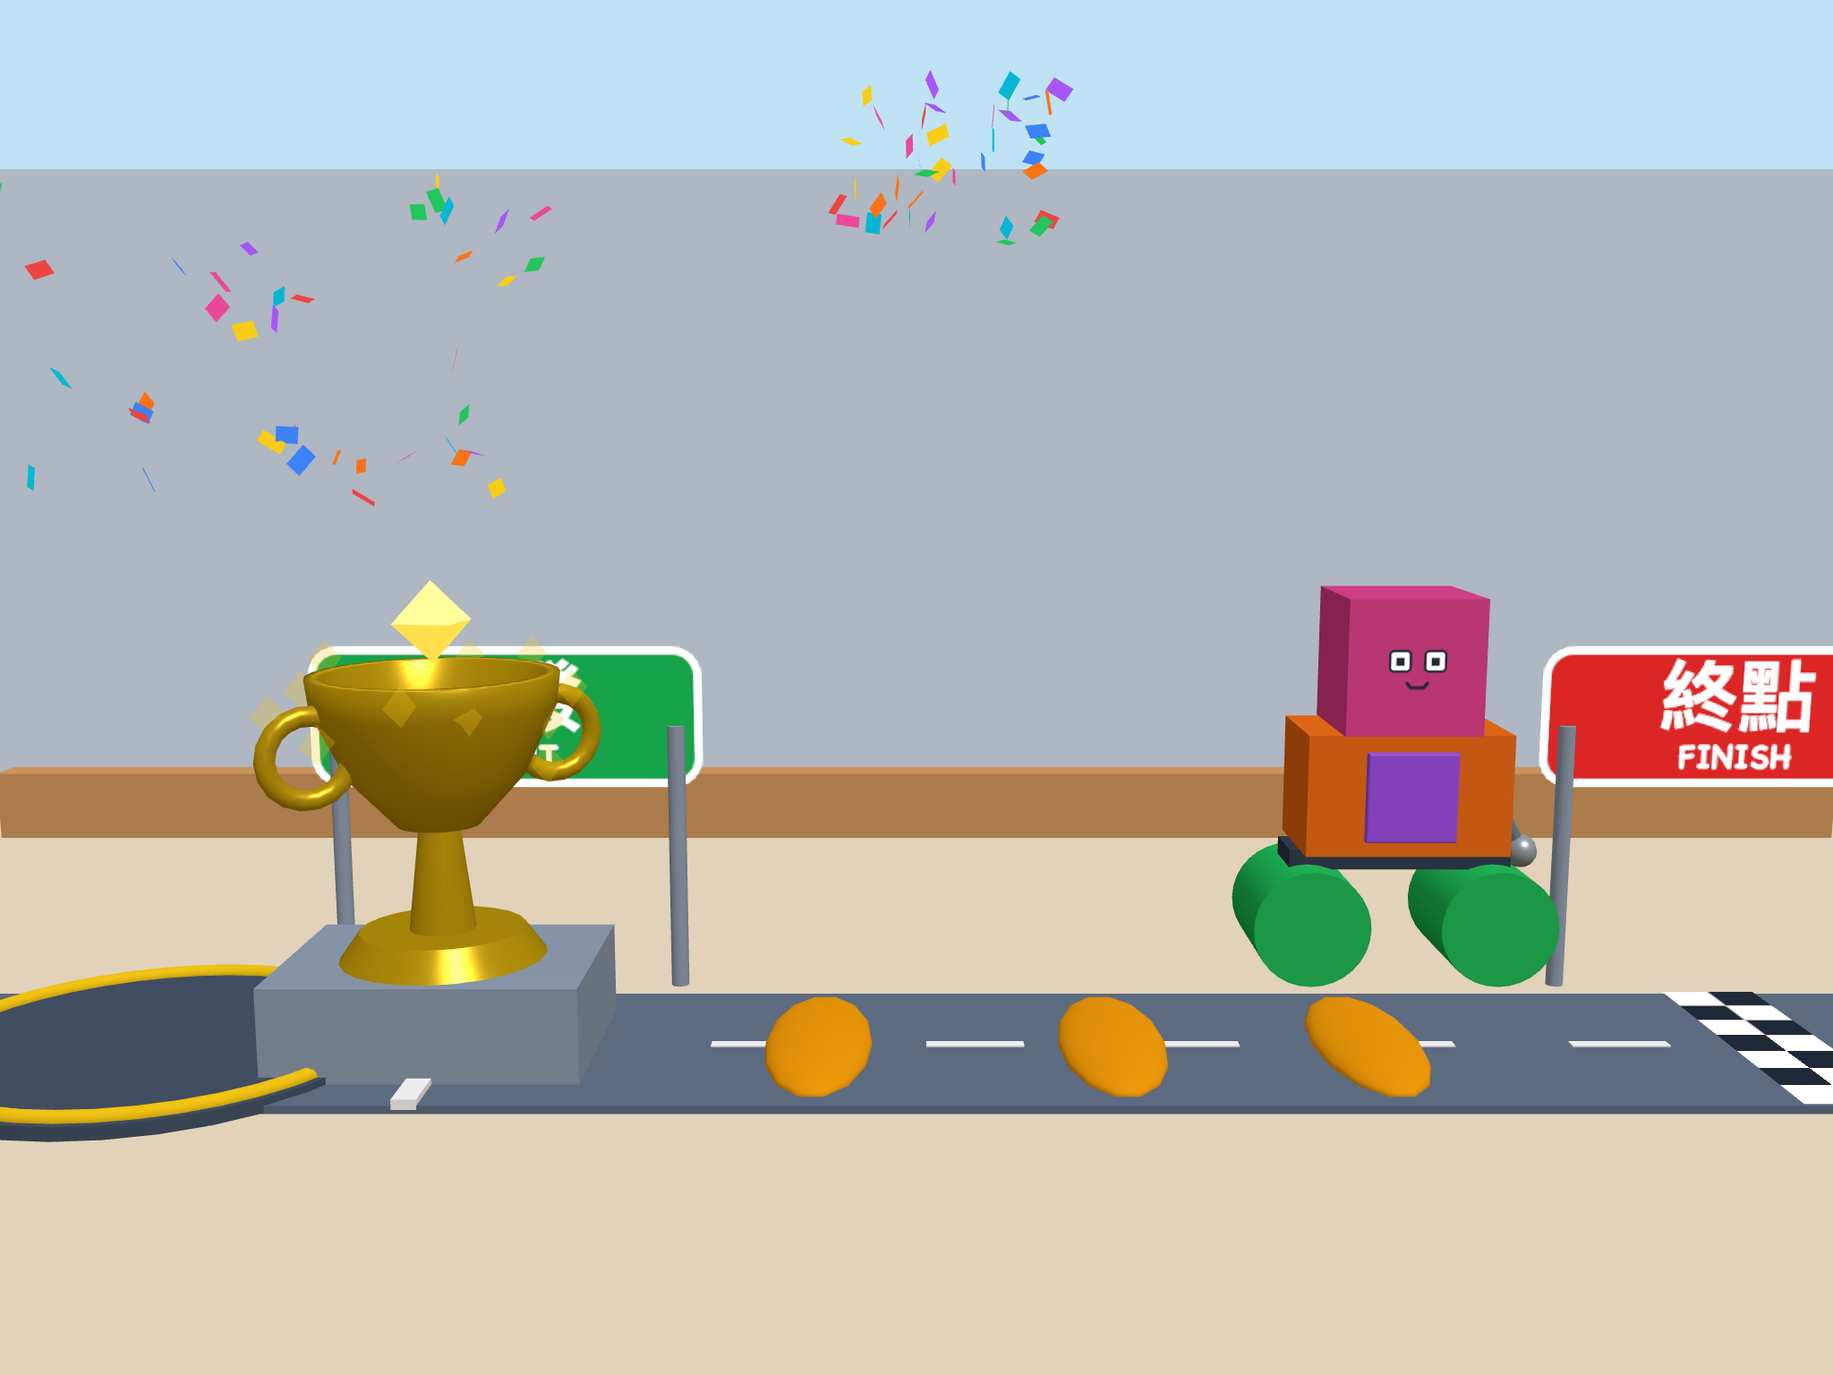
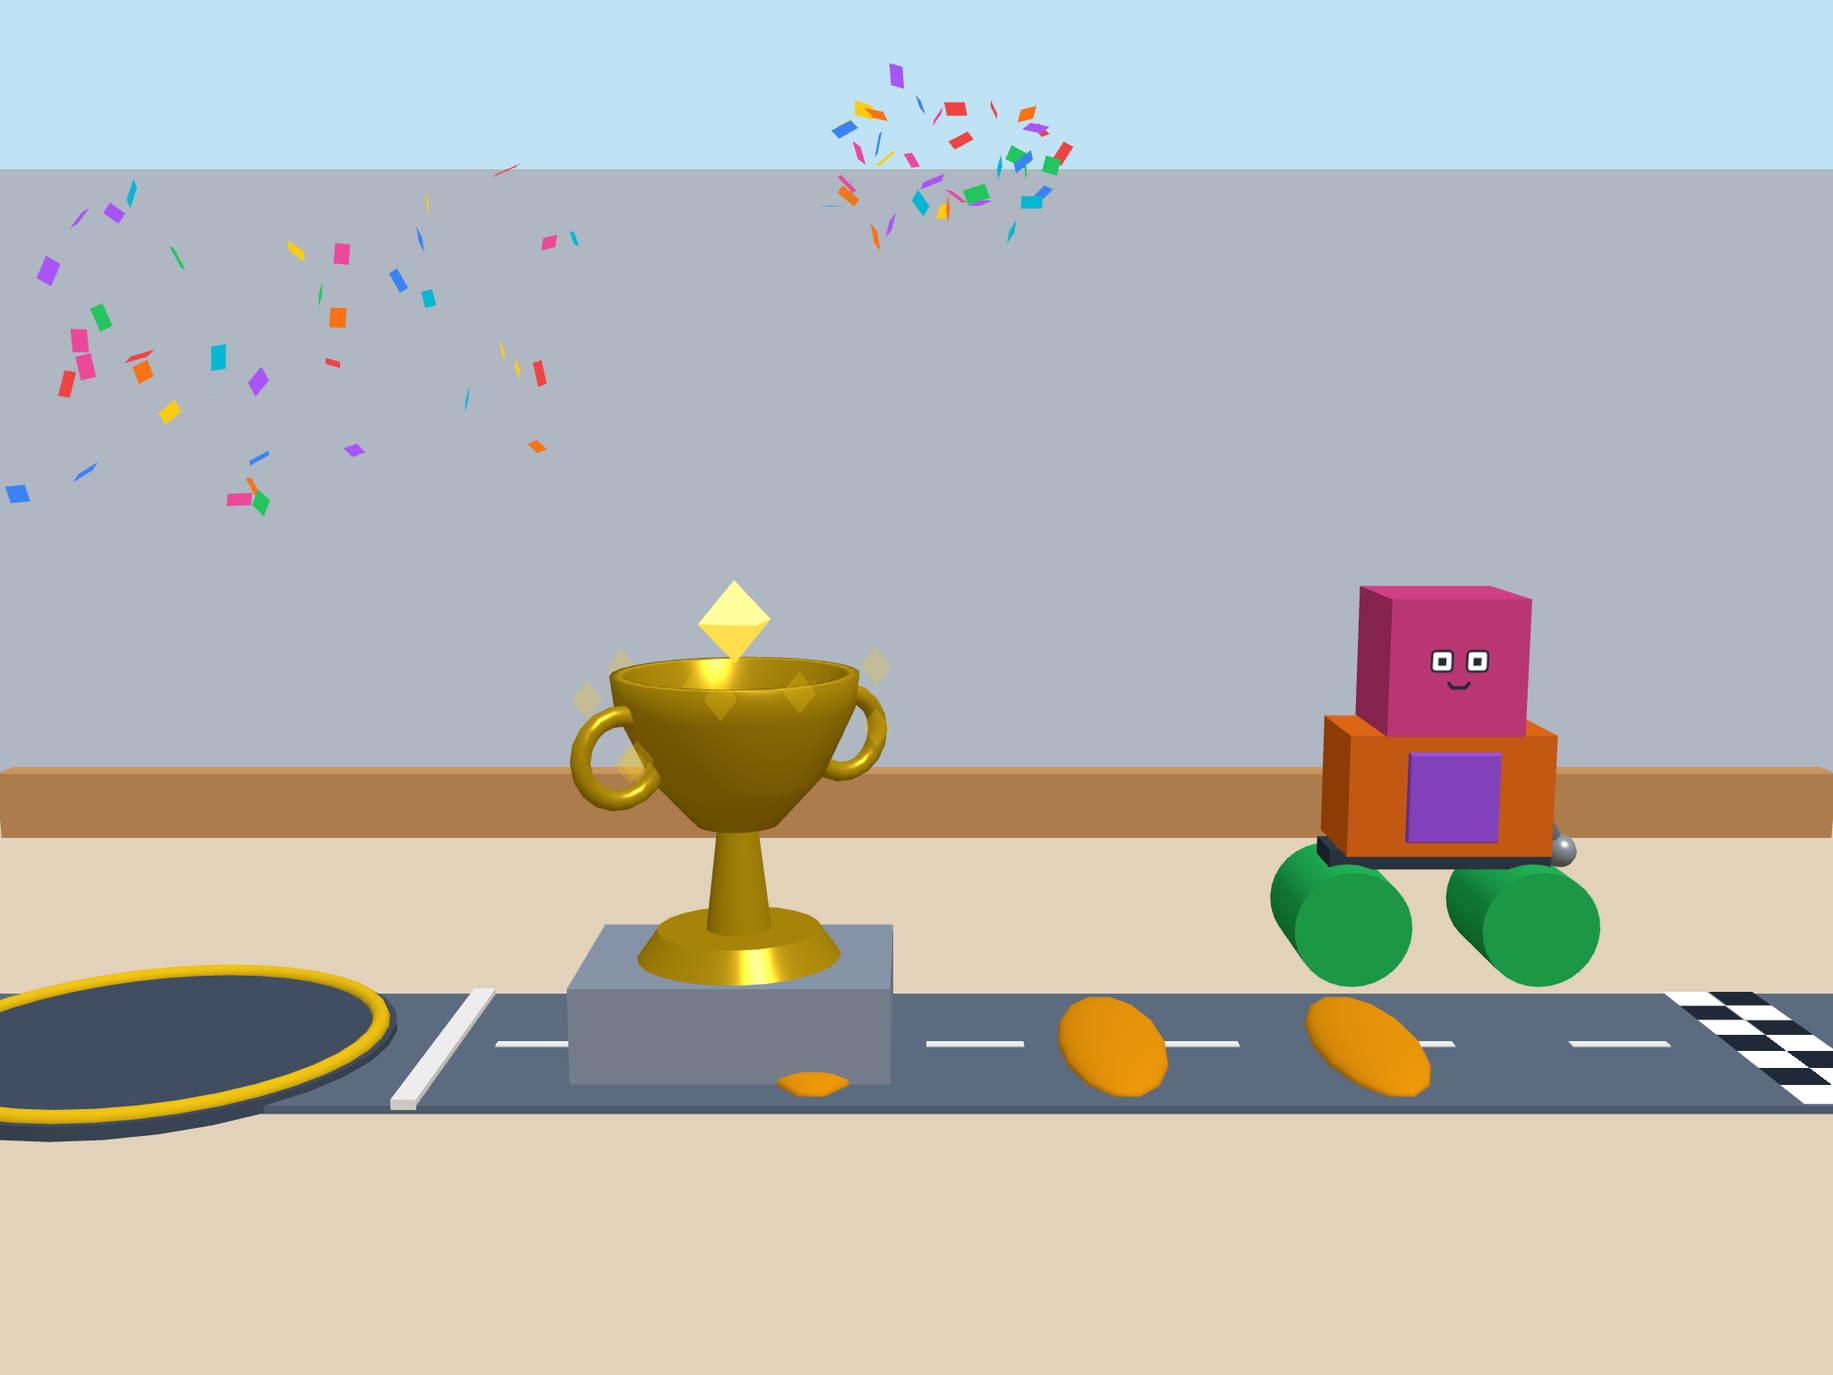
fix(shapes): T13 review fixes (non-blocking rush drops, grade at choice, portrait layouts, part nodes)

diff --git a/shapes/scenes/BossScene.js b/shapes/scenes/BossScene.js
@@ -109,6 +109,7 @@ export class BossScene extends CourseScene {
     this.buildRack();
     this.input.onTap(() => this.cells.map(c => c.group), cell => this.pick(this.cells.find(c => c.group === cell)));
     this.modeName = 'build';
+    this.applyLayout();
     this.setStatic(this.viewFor('build'), 0);
   }
 
@@ -179,7 +180,7 @@ export class BossScene extends CourseScene {
     ids.forEach((id, i) => {
       const cell = new THREE.Group(); cell.position.set(RACK.cell0 + i * RACK.pitch, row.y, RACK.z);
       const proxy = new THREE.Mesh(hitBox, hitMat); cell.add(proxy);
-      const marker = new THREE.Mesh(new THREE.CircleGeometry(0.58, 28), new THREE.MeshBasicMaterial({ color: 0x86efac }));
+      const marker = new THREE.Mesh(new THREE.CircleGeometry(0.44, 28), new THREE.MeshBasicMaterial({ color: 0x86efac }));
       marker.position.z = -0.32; marker.visible = false; cell.add(marker);
       const holder = new THREE.Group(); holder.scale.setScalar(ITEM); cell.add(holder);
       if (slot === 'panel') {
@@ -201,8 +202,11 @@ export class BossScene extends CourseScene {
     const d = Math.max(w / 2 / (t * asp), h / 2 / t);
     return { pos: [cx, cy + 0.5 + d * 0.1, d], look: [cx, cy, 0] };
   }
+  get portrait() { return this.stage.width / Math.max(1, this.stage.height) < 0.9; }
+  /** Tall screens (phones): the rack goes above the bay and the frame is tight, so shelf cells stay big enough to touch. */
+  applyLayout() { if (this.rack) this.rack.position.set(this.portrait ? -3 : 0, this.portrait ? 2.6 : 0, 0); }
   viewFor(mode) {
-    if (mode === 'build') return this.frame(-0.5, 2.7, 10.8, 8.2);
+    if (mode === 'build') return this.portrait ? this.frame(-2.05, 3.7, 6.6, 8.4) : this.frame(-0.5, 2.7, 10.8, 8.2);
     if (mode === 'trophy') return this.frame(0, 1.8, 9.6, 5.8);
     // 'follow': a window around the robot, kept ahead of it
     const x = this.robot ? Math.max(this.robot.position.x + 1.3, BAY_X + 1.3) : BAY_X + 1.3;
@@ -221,6 +225,7 @@ export class BossScene extends CourseScene {
     const key = this.stage.width + 'x' + this.stage.height;
     if (key !== this.sizeKey) {
       this.sizeKey = key;
+      this.applyLayout();
       if (this.camMode === 'static' && this.camTarget && this.modeName) this.setStatic(this.viewFor(this.modeName), 0);
     }
     if (this.camMode === 'follow' && this.cam) {
@@ -234,8 +239,8 @@ export class BossScene extends CourseScene {
       for (const g of this.glows) g.mesh.material.opacity = g.base * (0.6 + o);
       this.stage.invalidate();
     }
-    if (this.trophy) { this.trophy.rotation.y += dt * 0.9; this.stage.invalidate(); }
-    if (this.flag) this.flag.rotation.y = Math.sin(this.clock * 3) * 0.12;
+    if (this.trophy && !motion.less) { this.trophy.rotation.y += dt * 0.9; this.stage.invalidate(); }
+    if (this.flag && !motion.less) { this.flag.rotation.y = Math.sin(this.clock * 3) * 0.12; this.stage.invalidate(); }
   }
 
   async view(mode, ms = 650) {
@@ -263,14 +268,11 @@ export class BossScene extends CourseScene {
     this.stage.awake('boss-glow', true);
   }
 
-  /** Orange halo(s) around the part of the robot that failed. Works from the robot's fixed build order. */
+  /** Orange halo(s) around the part of the robot that failed (robot.userData.partNodes). */
   glowRobotPart(slot) {
     const r = this.robot; if (!r) return;
-    const stack = r.children[0] && r.children[0].children[0];
-    const kids = stack ? stack.children : [];
-    const nodes = kids.length >= 6
-      ? (slot === 'wheels' ? [kids[0], kids[1]] : slot === 'body' ? [kids[3]] : slot === 'head' ? [kids[4]] : [kids[5]])
-      : [r]; // robot layout changed: glow the whole robot rather than nothing
+    const pn = r.userData.partNodes && r.userData.partNodes[slot];
+    const nodes = pn ? [].concat(pn) : [r]; // no part nodes: glow the whole robot rather than nothing
     r.updateMatrixWorld(true);
     for (const n of nodes) {
       const b = new THREE.Box3().setFromObject(n), size = b.getSize(new THREE.Vector3()), c = b.getCenter(new THREE.Vector3());
@@ -313,6 +315,16 @@ export class BossScene extends CourseScene {
     try { sfx.pop(); } catch (e) { /* ignore */ }
     voice.say(slot === 'panel' ? ANSWER_TEXT[tileAnswer(templateById(id))].zh : FAMILY[familyOf(id)].zh);
     this.setRobot(true);
+    this.updateGo();
+  }
+
+  /** 出發 looks greyed out until all four rows are picked (tapping it early still gives the friendly toast). */
+  updateGo() {
+    const b = [...document.querySelectorAll('#ui button')].find(x => x.textContent.includes('出發'));
+    if (!b) return;
+    const ok = this.allPicked();
+    b.style.opacity = ok ? '' : '0.45'; b.style.filter = ok ? '' : 'grayscale(1)';
+    b.setAttribute('aria-disabled', ok ? 'false' : 'true');
   }
 
   allPicked() { return SLOT_ORDER.every(s => this.picked[s]); }
@@ -379,7 +391,9 @@ export class BossScene extends CourseScene {
       `Wheels that roll · ${CLUE_TEXT[job.head.fact][job.head.value].en} · ${ANSWER_TEXT[job.panel].en} window`, { speak: false });
     this.canPick = true;
     for (;;) {
-      await this.live(this.ui.choices([{ id: 'go', zh: '出發！', en: 'Go!', icon: '🚦' }]));
+      const goP = this.ui.choices([{ id: 'go', zh: '出發！', en: 'Go!', icon: '🚦' }]);
+      this.updateGo();
+      await this.live(goP);
       await this.holdWhileLeaving();
       if (this.busy) continue;
       if (!this.allPicked()) {
@@ -400,15 +414,18 @@ export class BossScene extends CourseScene {
       await this.view('build');
       this.glowRobotPart(this.fixSlot);
       this.busy = false; this.canPick = true;
-      await this.wrong(job, res.fail, 'job' + (i + 1));
+      await this.wrong(job, res.fail, this.build[FAIL_SLOT[res.fail]]); // item = the faulty part's model / tile id, picked = fail code
     }
   }
 
   /** The right choices in the faulty row glow (called by the base after the 2nd wrong drive on a job). */
   async hint(job) {
-    if (!this.fixSlot) return;
-    for (const c of this.rightChoices(this.fixSlot)) {
-      const disc = new THREE.Mesh(new THREE.CircleGeometry(0.66, 28), new THREE.MeshBasicMaterial({ color: 0xfde047, blending: THREE.AdditiveBlending }));
+    const r = checkBuild(job, this.build);                       // what failed, worked out again so the row is never empty
+    const slot = r.fail ? FAIL_SLOT[r.fail] : this.fixSlot;
+    if (!slot) return;
+    this.fixSlot = slot;
+    for (const c of this.rightChoices(slot)) {
+      const disc = new THREE.Mesh(new THREE.CircleGeometry(0.46, 28), new THREE.MeshBasicMaterial({ color: 0xfde047, blending: THREE.AdditiveBlending }));
       disc.position.set(0, 0, -0.2); c.group.add(disc); this.addGlow(disc, 'hint', 0.7);
     }
     this.ui.toast('試試發光的零件！', 'Try the glowing part!', 1600);
@@ -450,7 +467,8 @@ export class BossScene extends CourseScene {
   /** Crossing the finish: confetti, a happy hop and a spin. */
   async celebrate() {
     const r = this.robot, x = r.position.x;
-    this.confetti(x, 1.6, LANE_Z, 36);
+    this.confetti(x, 1.6, LANE_Z, 36); // (skipped with Less motion, which also drops the sparkle, hops and spin)
+    if (motion.less) { await this.live(wait(300)); return; }
     sparkle(this.stage, new THREE.Vector3(x, 1.4, LANE_Z), this.root);
     for (let k = 0; k < 2; k++) {
       await this.live(tween(r.position, { y: 0.4 }, { ms: 180, ease: 'outCubic' }));
@@ -481,19 +499,19 @@ export class BossScene extends CourseScene {
   async finish() {
     await this.holdWhileLeaving();
     this.ui.back(null); this.ui.hidePrompt(); this.ui.clearChoices();
-    this.clearGlows(); this.rack.visible = false; this.signs.visible = true;
+    this.clearGlows(); this.rack.visible = false; this.signs.visible = false; // the start / finish boards would cover the trophy
     this.canPick = false;
-    if (this.robot) { this.robot.userData.reset(); this.robot.position.set(2.4, 0, LANE_Z); this.robot.rotation.set(0, 0, 0); }
+    if (this.robot) { this.robot.userData.reset(); this.robot.position.set(2.6, 0, LANE_Z); this.robot.rotation.set(0, 0, 0); }
     await this.view('trophy', 700);
     const trophy = this.makeTrophy(); this.trophy = trophy.userData.top; // update() turns the cup (not the podium)
-    trophy.position.set(-2.4, 0, LANE_Z); trophy.scale.setScalar(0.01); this.root.add(trophy);
+    trophy.position.set(-0.9, 0, LANE_Z); trophy.scale.setScalar(0.01); this.root.add(trophy);
     this.stage.awake('boss-trophy', true);
     try { sfx.fanfare(); } catch (e) { /* ignore */ }
     this.ui.toast('測試冠軍！', 'Test Track Champion!', 2200);
     voice.say('測試冠軍！好叻呀！');
     const grow = tween(trophy.scale, { x: 1, y: 1, z: 1 }, { ms: 800, ease: 'outBack' });
-    sparkle(this.stage, new THREE.Vector3(-2.4, 1.6, LANE_Z), this.root);
     if (!motion.less) {
+      sparkle(this.stage, new THREE.Vector3(-0.9, 1.6, LANE_Z), this.root);
       // fireworks: three bursts of confetti in the sky, one after another
       this.confetti(-3.2, 3.2, 0, 40);
       this.live(wait(350)).then(() => this.confetti(0.2, 3.8, -0.5, 40));
@@ -501,7 +519,7 @@ export class BossScene extends CourseScene {
     }
     // the robot dances beside it
     const r = this.robot;
-    const dance = (async () => {
+    const dance = motion.less ? Promise.resolve() : (async () => {
       for (let k = 0; k < 3 && r; k++) {
         await this.live(tween(r.position, { y: 0.45 }, { ms: 200 }));
         await this.live(tween(r.position, { y: 0 }, { ms: 280, ease: 'outBounce' }));

diff --git a/shapes/scenes/RushScene.js b/shapes/scenes/RushScene.js
@@ -24,8 +24,8 @@ import { FAMILIES, FAMILY, TILE_ANSWERS, ANSWER_TEXT, genRush3d, genRush2d, shuf
 
 // ---- layout (x right, y up) ----
 const BELT = { x0: -4.3, x1: 3.9, top: 3.3, h: 0.35 };       // belt: left end, right end (items fall off here), top surface height
-const BIN = { w: 1.2, h: 1.5, pitch: 1.35, y: 0, z: -0.8 };  // bins stand on the floor behind the item plane
-const CRATE = { x: 4.8, w: 1.3, h: 1.0 };
+const BIN = { w: 1.3, h: 1.5, pitch: 1.35, y: 0, z: -0.8 };  // bins stand on the floor behind the item plane
+const CRATE = { x: 3.95, w: 1.1, h: 1.0 };                    // under the belt end, right of the last bin
 const ITEM_S = 1.1;                                           // size of an item on the belt
 const ITEM_Y = BELT.top + ITEM_S / 2;                         // centre height of an item on the belt
 const MAX_ON_BELT = 3, GAP = 1.5, SPEED = 1.35, FEVER_SPEED = 2.0;
@@ -67,7 +67,7 @@ export class RushScene extends Scene {
     this.zone = zone === 'b' ? 'b' : 'a';
     this.items = [];            // { id, holder, data, x, state: 'belt' | 'held' | 'busy', off }
     this.nextId = 1; this.spawnT = 0.3; this.clock = 0; this.hue = 0; this.feverT = 0;
-    this.running = false; this.ended = false; this.rushOn = false;
+    this.running = false; this.ended = false; this.rushOn = false; this.timeIsUp = false; this.sel = null;
     this.lastAnswers = [];
     this.hover = null; this.sizeKey = '';
 
@@ -93,7 +93,7 @@ export class RushScene extends Scene {
 
   // ------------------------------------------------------------------ set
   buildRoom() {
-    const floor = new THREE.Mesh(new THREE.BoxGeometry(60, 0.3, 30), lam(SCENE.floor)); floor.position.set(0, -0.15, -4);
+    const floor = new THREE.Mesh(new THREE.BoxGeometry(60, 0.3, 60), lam(SCENE.floor)); floor.position.set(0, -0.15, 6);
     const wall = new THREE.Mesh(new THREE.BoxGeometry(60, 14, 0.3), lam(SCENE.wall)); wall.position.set(0, 7, -4.0);
     const bench = new THREE.Mesh(new THREE.BoxGeometry(60, 0.4, 0.4), lam(SCENE.bench)); bench.position.set(0, 0.2, -3.7);
     this.root.add(floor, wall, bench);
@@ -146,7 +146,7 @@ export class RushScene extends Scene {
     part(0.08, CRATE.h, 0.9, -CRATE.w / 2, CRATE.h / 2, 0);
     part(0.08, CRATE.h, 0.9, CRATE.w / 2, CRATE.h / 2, 0);
     part(CRATE.w, CRATE.h * 0.55, 0.08, 0, CRATE.h * 0.275, 0.41);
-    const lab = labelPlaque('等一下', 'Later', 1.0, 0.46); lab.position.set(0, 0.4, 0.47); g.add(lab);
+    const lab = labelPlaque('等一下', 'Later', 0.95, 0.44); lab.position.set(0, 0.4, 0.47); g.add(lab);
     this.root.add(g);
   }
 
@@ -158,7 +158,7 @@ export class RushScene extends Scene {
   // ------------------------------------------------------------------ camera
   viewArgs() {
     const asp = this.stage.width / Math.max(1, this.stage.height), t = Math.tan(THREE.MathUtils.degToRad(20));
-    const w = 10.6, h = 6.6, cx = 0.45, cy = 2.4;
+    const w = 9.4, h = 6.6, cx = 0.05, cy = 2.4;
     const d = Math.max(w / 2 / (t * asp), h / 2 / t);
     return [[cx, cy + 0.6 + d * 0.06, d], [cx, cy, 0]];
   }
@@ -173,8 +173,9 @@ export class RushScene extends Scene {
 
   async timeUp() {
     if (this.ended || !this.alive) return;
-    this.ended = true; this.running = false;
-    for (const it of this.items) if (it.state === 'held') it.state = 'busy';
+    this.ended = true; this.running = false; this.timeIsUp = true;
+    for (const it of this.items.filter(i => i.state === 'held')) this.retire(it); // nothing stays in a hand when time is up
+    this.setHover(null);
     this.hi.visible = false;
     this.ui.toast('時間到！', "Time's up!", 1800);
     try { sfx.fanfare(); } catch (e) { /* ignore */ }
@@ -186,7 +187,7 @@ export class RushScene extends Scene {
 
   /** ⬅: stop the timer and HUD without saving, back to the Workshop. */
   leave() {
-    if (!this.alive) return;
+    if (!this.alive || this.timeIsUp) return; // after 「時間到」 the score is going to be saved: ⬅ does nothing
     this.running = false; this.ended = true;
     if (this.rushOn) { this.rushOn = false; this.bridge.rushAbort(); }
     this.go('Workshop');
@@ -221,9 +222,10 @@ export class RushScene extends Scene {
     tween(holder.scale, { x: 1, y: 1, z: 1 }, { ms: 220, ease: 'outBack' });
     it.off = this.input.drag(holder, {
       plane: PLANE, lift: 0,
-      onStart: () => { if (it.state === 'belt' && !this.ended) { it.state = 'held'; try { sfx.tick(); } catch (e) { /* ignore */ } } },
+      onStart: o => { if (it.state === 'belt' && !this.ended) { it.state = 'held'; it.start = o.position.clone(); try { sfx.tick(); } catch (e) { /* ignore */ } } },
       onMove: (o, pt) => this.setHover(it.state === 'held' ? this.binAt(pt) : null),
-      onEnd: (o, pt, { cancelled } = {}) => this.dropped(it, pt, cancelled),
+      // not returned: Input awaits onEnd and would block every press until the animation finished
+      onEnd: (o, pt, ev) => { this.dropped(it, pt, !!(ev && ev.cancelled)); },
     });
     this.items.push(it);
     this.spawnT = this.bridge.rushState().isFever ? 1.0 : 1.4;
@@ -242,13 +244,16 @@ export class RushScene extends Scene {
     this.stage.invalidate();
   }
 
-  async dropped(it, pt, cancelled) {
+  dropped(it, pt, cancelled) {
     this.setHover(null);
     if (it.state !== 'held') return;
-    if (cancelled || this.ended || !this.alive) { this.backToBelt(it, it.holder.position.x); return; }
+    const h = it.holder;
+    if (cancelled || this.ended || !this.alive) { this.backToBelt(it, h.position.x); return; }
+    // a press without movement selects the item: the next bin tap sends this one (no sideways snap)
+    if (h.position.distanceTo(it.start) < 0.15) { it.state = 'belt'; h.position.copy(it.start); this.sel = it; this.stage.invalidate(); return; }
     const bin = this.binAt(pt);
-    if (bin) { await this.sendTo(it, bin); return; }
-    if (pt.y < DROP_BELOW && pt.x > BELT.x1 - 0.1) { await this.toCrate(it, false); return; } // dropped on the "later" crate
+    if (bin) { this.sendTo(it, bin); return; }
+    if (pt.y < DROP_BELOW && pt.x > BELT.x1 - 0.1) { this.toCrate(it, false); return; } // dropped on the "later" crate
     this.backToBelt(it, pt.x);
   }
 
@@ -261,6 +266,7 @@ export class RushScene extends Scene {
 
   /** The highlighted item: the one nearest the end of the belt. */
   front() {
+    if (this.sel && this.sel.state === 'belt' && this.items.includes(this.sel)) return this.sel; // chosen by a press on it
     let f = null;
     for (const it of this.items) if (it.state === 'belt' && (!f || it.x > f.x)) f = it;
     return f;
@@ -268,7 +274,7 @@ export class RushScene extends Scene {
 
   /** Tap on a bin: the front item flies in. (Public: also used to test.) */
   sendFront(bin) {
-    if (!this.running || this.ended) return null;
+    if (this.ended || !this.running) return null;
     const it = this.front();
     if (!it) return null;
     this.sendTo(it, bin);
@@ -277,6 +283,7 @@ export class RushScene extends Scene {
 
   retire(it) {
     if (it.off) { it.off(); it.off = null; }
+    if (this.sel === it) this.sel = null;
     this.items = this.items.filter(x => x !== it);
     this.root.remove(it.holder);
     disposeTree(it.holder);
@@ -284,17 +291,18 @@ export class RushScene extends Scene {
   }
 
   async sendTo(it, bin) {
-    it.state = 'busy';
+    if (this.ended || it.state === 'busy') return;
+    // grade at the moment of choice (the answer comes from shapes-logic's genRush3d / genRush2d); then animate
+    it.state = 'busy'; if (this.sel === it) this.sel = null;
     if (it.off) { it.off(); it.off = null; }
+    const right = it.answer === bin.answer;
+    const pts = this.bridge.rushHit(right, 10);
+    const fever = this.bridge.rushState().isFever;
     const h = it.holder, mouth = BIN.h + 0.35;
     await this.live(Promise.all([
       tween(h.position, { x: bin.x, y: mouth, z: 0 }, { ms: 300, ease: 'outCubic' }),
       tween(h.scale, { x: 0.6, y: 0.6, z: 0.6 }, { ms: 300, ease: 'outCubic' }),
     ]));
-    if (this.ended || !this.alive) { this.retire(it); return; }
-    const right = it.answer === bin.answer;                       // the answer comes from shapes-logic's genRush3d / genRush2d
-    const pts = this.bridge.rushHit(right, 10);
-    const fever = this.bridge.rushState().isFever;
     if (right) {
       try { sfx.munch(); sfx.ding(); } catch (e) { /* ignore */ }
       this.mood(bin, 'happy', 700);
@@ -325,7 +333,8 @@ export class RushScene extends Scene {
 
   /** Falls off the end of the belt (or dropped on the crate): into the "later" crate, no points either way. */
   async toCrate(it, fromBelt = true) {
-    it.state = 'busy';
+    if (it.state === 'busy') return;
+    it.state = 'busy'; if (this.sel === it) this.sel = null;
     if (it.off) { it.off(); it.off = null; }
     const h = it.holder;
     try { sfx.tick(); } catch (e) { /* ignore */ }

diff --git a/shapes/models/robot.js b/shapes/models/robot.js
@@ -522,6 +522,6 @@ export function makeBuildRobot(build, { rng = Math.random } = {}) {
     rig.rotation.set(0, 0, 0); rig.position.y = cY;
   }
 
-  root.userData = { buildRobot: true, build: { ...build }, drive, reset };
+  root.userData = { buildRobot: true, build: { ...build }, drive, reset, partNodes: { wheels: wheelMounts, body: bodyG, head: headG, panel: win.m } };
   return root;
 }
